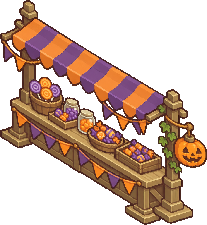
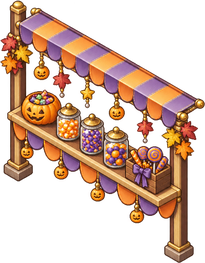
사탕 가판대·단풍 아치 그림과 할로윈 배경 교체, 철거 버튼 글자 잘림 고침
Claude-Session: https://claude.ai/code/session_012JmrYrYAdyz2vxXVVyUJFg

diff --git a/Assets/ZooZooClub/Scripts/Client/GameHud.cs b/Assets/ZooZooClub/Scripts/Client/GameHud.cs
@@ -2080,13 +2080,20 @@ namespace ZooZooClub.Client
                 world.BeginMoving(objectId);
             }, height, fontSize, Ui.Blue);
 
-            Ui.Button("Store", parent, "보관", () => StoreObject(objectId), height, fontSize, Ui.Sand);
+            var store = Ui.Button("Store", parent, "보관", () => StoreObject(objectId), height, fontSize, Ui.Sand);
+            store.GetComponent<ULayoutElement>().flexibleWidth = 0.8f;
 
             long refund = (long)def.cost * game.Catalog.balance.sellBackPercent / 100;
-            Ui.Button("Remove", parent, "철거 +" + refund.ToString("N0"), () =>
+            var remove = Ui.Button("Remove", parent, "철거 +" + refund.ToString("N0"), () =>
             {
                 Report(game.Remove(objectId), "철거했어요.");
             }, height, fontSize, Ui.Red);
+            // 철거 버튼은 돌려받는 코인까지 적혀 있어 글자가 길다. 조금 넓게 두고, 그래도 넘치면 글자를 줄인다.
+            remove.GetComponent<ULayoutElement>().flexibleWidth = 1.6f;
+            var removeLabel = remove.GetComponentInChildren<TextMeshProUGUI>();
+            removeLabel.enableAutoSizing = true;
+            removeLabel.fontSizeMin = 12f;
+            removeLabel.fontSizeMax = fontSize;
         }
 
         /// <summary>마을에서 거둬 보관함에 넣는다. 안 되는 까닭은 알아듣기 쉽게 알려 준다.</summary>
